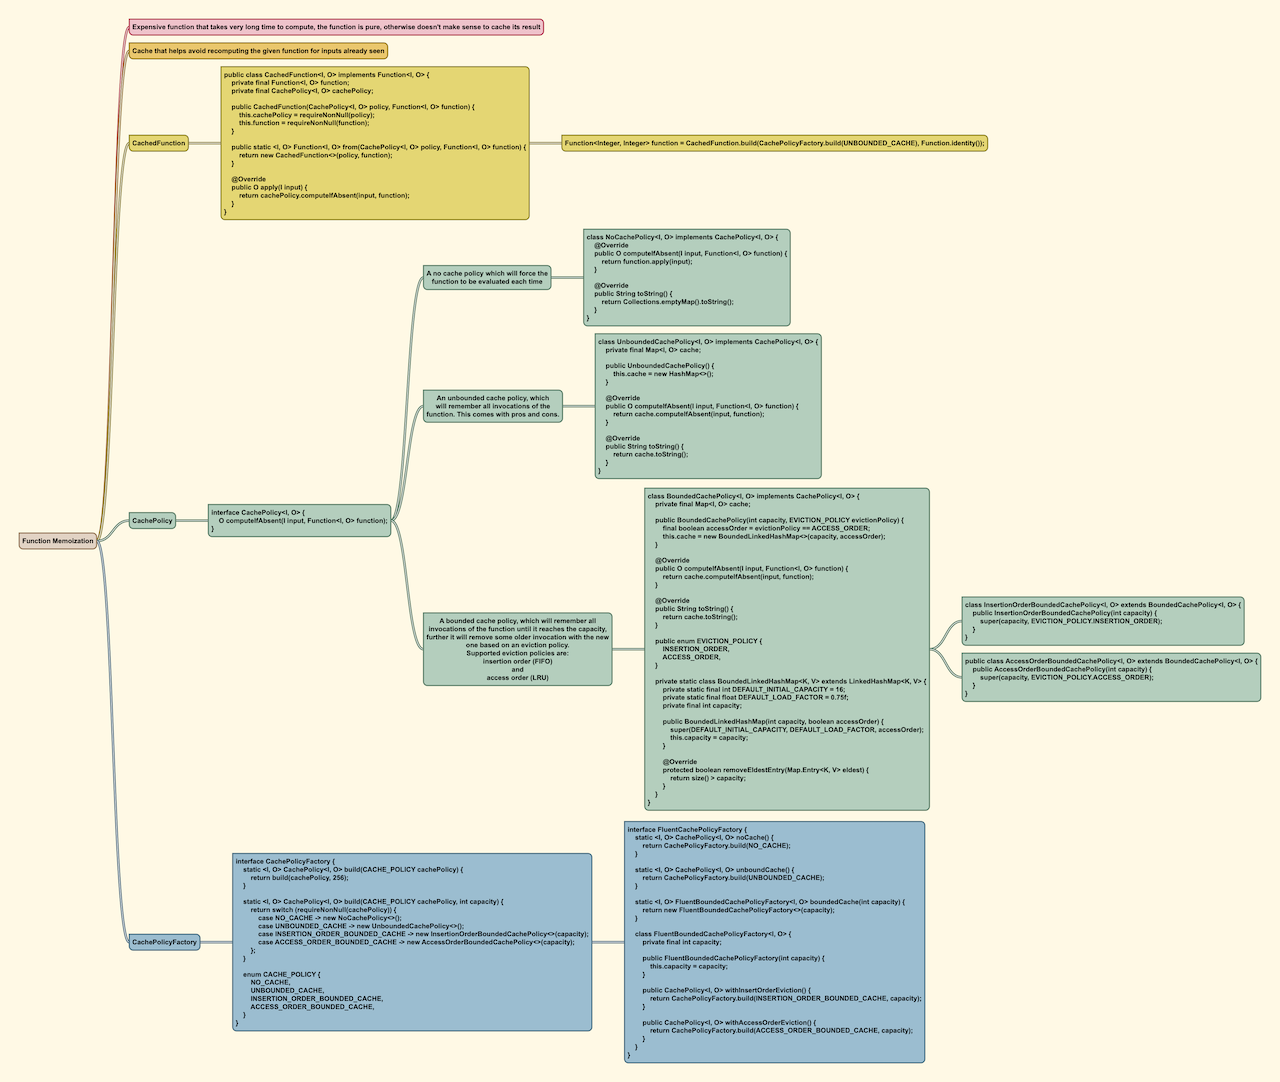
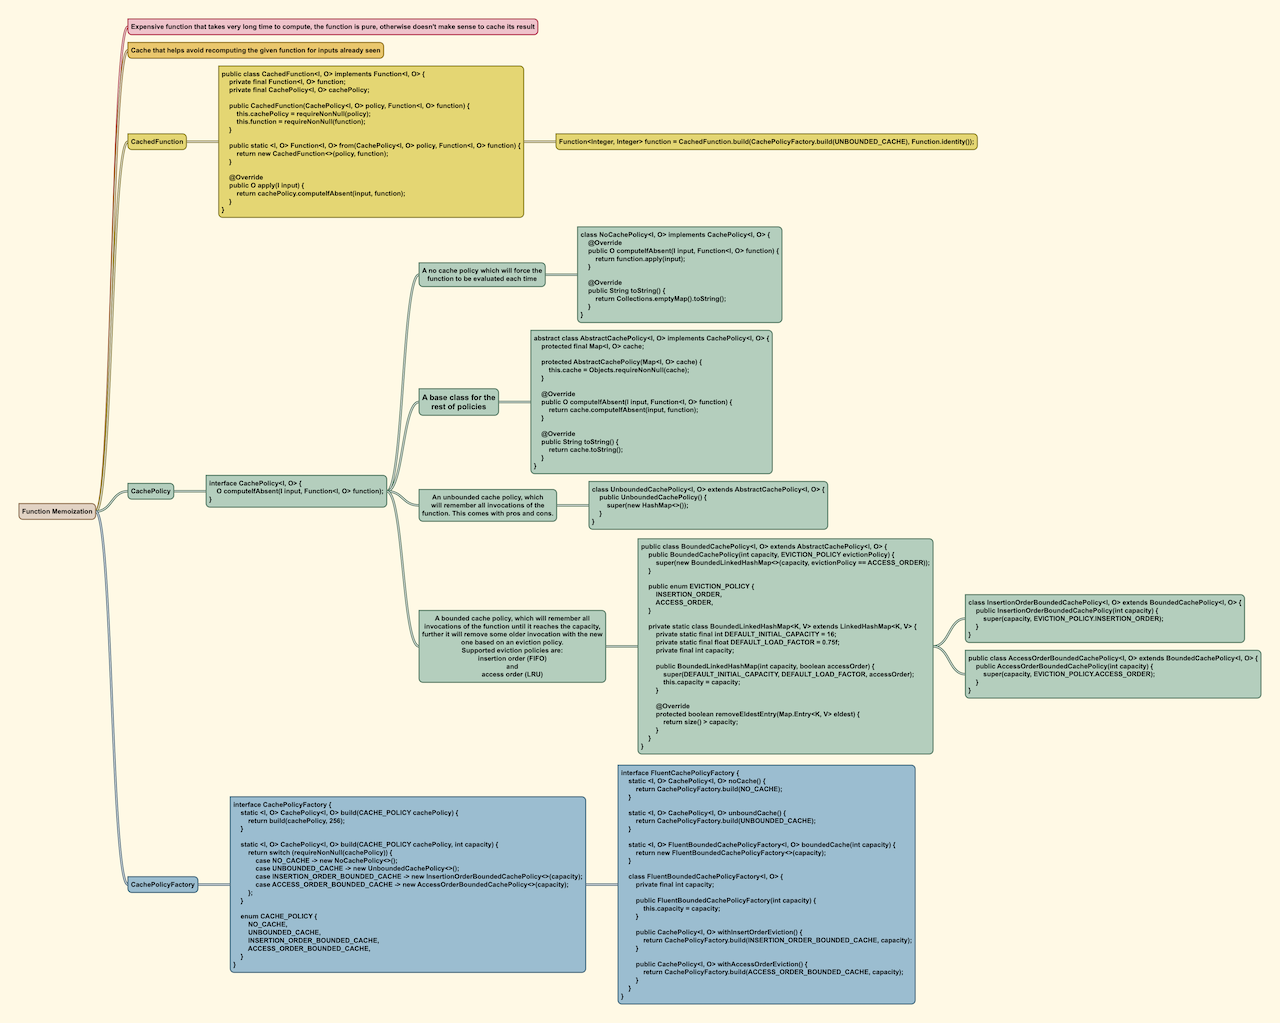
small refactoring

Changed region(s): [[0.0, 0.0, 1.0, 1.0]]

diff --git a/src/main/java/org/function/policies/BoundedCachePolicy.java b/src/main/java/org/function/policies/BoundedCachePolicy.java
@@ -1,29 +1,13 @@
 package org.function.policies;
 
-import org.function.CachePolicy;
-
 import java.util.LinkedHashMap;
 import java.util.Map;
-import java.util.function.Function;
 
 import static org.function.policies.BoundedCachePolicy.EVICTION_POLICY.ACCESS_ORDER;
 
-public class BoundedCachePolicy<I, O> implements CachePolicy<I, O> {
-    private final Map<I, O> cache;
-
+public class BoundedCachePolicy<I, O> extends AbstractCachePolicy<I, O> {
     public BoundedCachePolicy(int capacity, EVICTION_POLICY evictionPolicy) {
-        final boolean accessOrder = evictionPolicy == ACCESS_ORDER;
-        this.cache = new BoundedLinkedHashMap<>(capacity, accessOrder);
-    }
-
-    @Override
-    public O computeIfAbsent(I input, Function<I, O> function) {
-        return cache.computeIfAbsent(input, function);
-    }
-
-    @Override
-    public String toString() {
-        return cache.toString();
+        super(new BoundedLinkedHashMap<>(capacity, evictionPolicy == ACCESS_ORDER));
     }
 
     public enum EVICTION_POLICY {

diff --git a/src/main/java/org/function/policies/UnboundedCachePolicy.java b/src/main/java/org/function/policies/UnboundedCachePolicy.java
@@ -1,25 +1,9 @@
 package org.function.policies;
 
-import org.function.CachePolicy;
-
 import java.util.HashMap;
-import java.util.Map;
-import java.util.function.Function;
 
-public class UnboundedCachePolicy<I, O> implements CachePolicy<I, O> {
-    private final Map<I, O> cache;
-
+public class UnboundedCachePolicy<I, O> extends AbstractCachePolicy<I, O> {
     public UnboundedCachePolicy() {
-        this.cache = new HashMap<>();
-    }
-
-    @Override
-    public O computeIfAbsent(I input, Function<I, O> function) {
-        return cache.computeIfAbsent(input, function);
-    }
-
-    @Override
-    public String toString() {
-        return cache.toString();
+        super(new HashMap<>());
     }
 }

diff --git a/src/main/java/org/function/policies/AbstractCachePolicy.java b/src/main/java/org/function/policies/AbstractCachePolicy.java
@@ -1,0 +1,25 @@
+package org.function.policies;
+
+import org.function.CachePolicy;
+
+import java.util.Map;
+import java.util.Objects;
+import java.util.function.Function;
+
+public abstract class AbstractCachePolicy<I, O> implements CachePolicy<I, O> {
+    protected final Map<I, O> cache;
+
+    protected AbstractCachePolicy(Map<I, O> cache) {
+        this.cache = Objects.requireNonNull(cache);
+    }
+
+    @Override
+    public O computeIfAbsent(I input, Function<I, O> function) {
+        return cache.computeIfAbsent(input, function);
+    }
+
+    @Override
+    public String toString() {
+        return cache.toString();
+    }
+}
